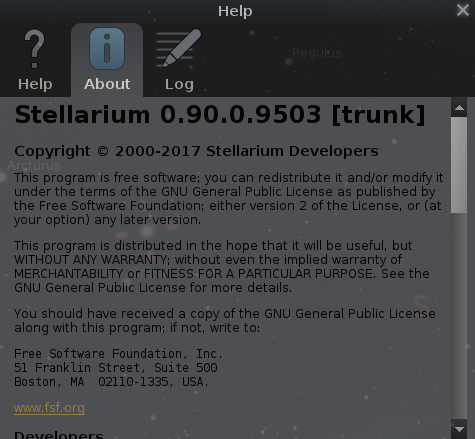
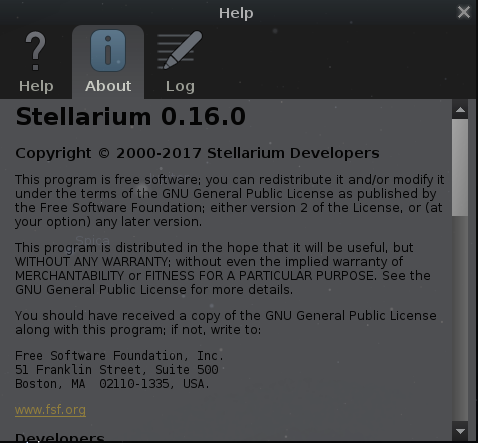
prepare to release 0.16.0

diff --git a/guide/version.tex b/guide/version.tex
@@ -1,1 +1,1 @@
-\newcommand{\StelVersion}{0.90.0}
+\newcommand{\StelVersion}{0.16.0}
